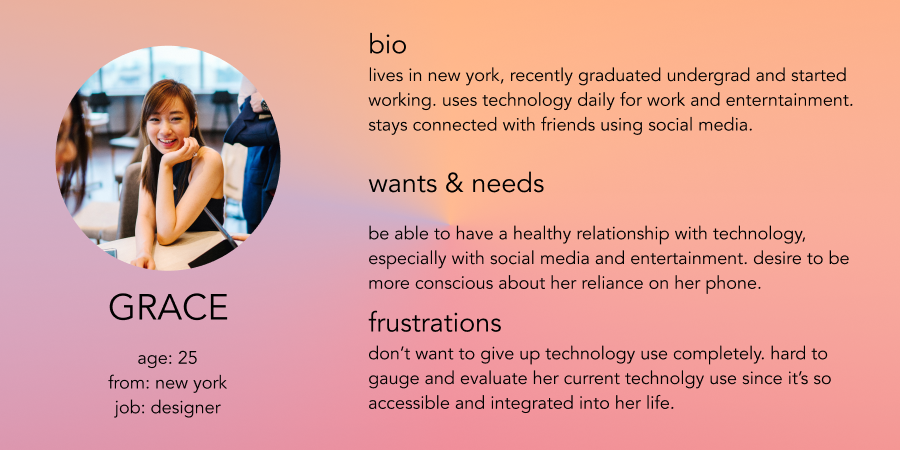
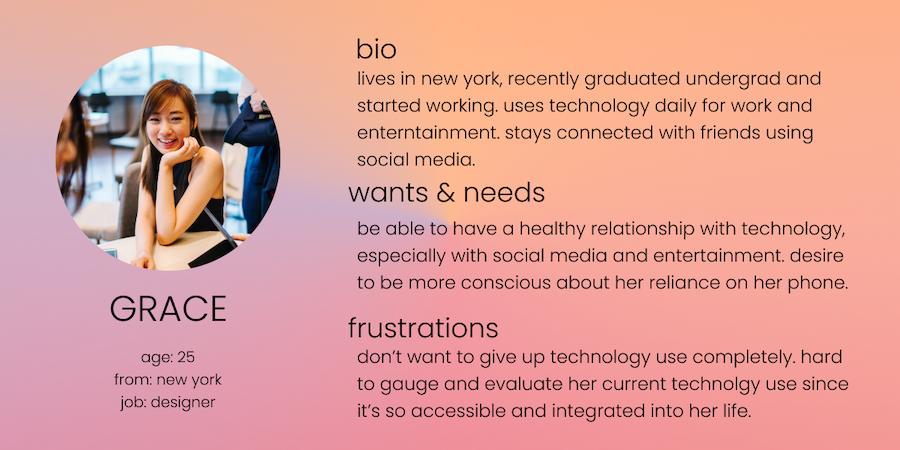
added second persona

diff --git a/des157-wi20/research/audience.html b/des157-wi20/research/audience.html
@@ -17,14 +17,21 @@
     <hr>
     
     <main>
-        <h2>Audience Research</h2>
+        <h2>Audience Research: User Personas</h2>
         <article> 
-            <h3>User Personas</h3>
-            <img src="./images/persona1.png" alt="user persona">
+            <h3>Persona 1</h3>
+            <img src="./images/persona1.png" alt="user persona female">
             <p style="font-weight:400; color:#999999">Grace, 25</p>
             <p>Grace is the first persona.</p>
             <p>Grace is a 25 year old female who currently lives in New York. She recently graduated from university and is working as a designer. Much of her work is done using her computer and phone and she stays updated socially using social media. She finds that she can't really gauge her technology usage since it's so integrated into her daily life. She hopes to have a healthy relationship with technology and also appreciates sleek, interactive design.</p>
-    </article>
+        </article>
+        <article> 
+            <h3>Persona 2</h3>
+            <img src="./images/persona2.png" alt="user persona male">
+            <p style="font-weight:400; color:#999999">Tim, 20</p>
+            <p>Tim is the second persona.</p>
+            <p>Tim is a 20 year old male who currently lives in Berkeley and attends UC Berkeley. He studies computer science and spends a lot of time on his computer and phone. He endures a lot of stress due to school and relies on his phone for both entertianment and escape. He doesn't know exactly how much time he spends on his phone because he's so busy. He wants to feel motivated, fulfilled, and meaningful.</p>
+        </article>
     </main>
     <a class="home" href="../index.html">🌀 Back to portal!</a> <br>
     <hr>
